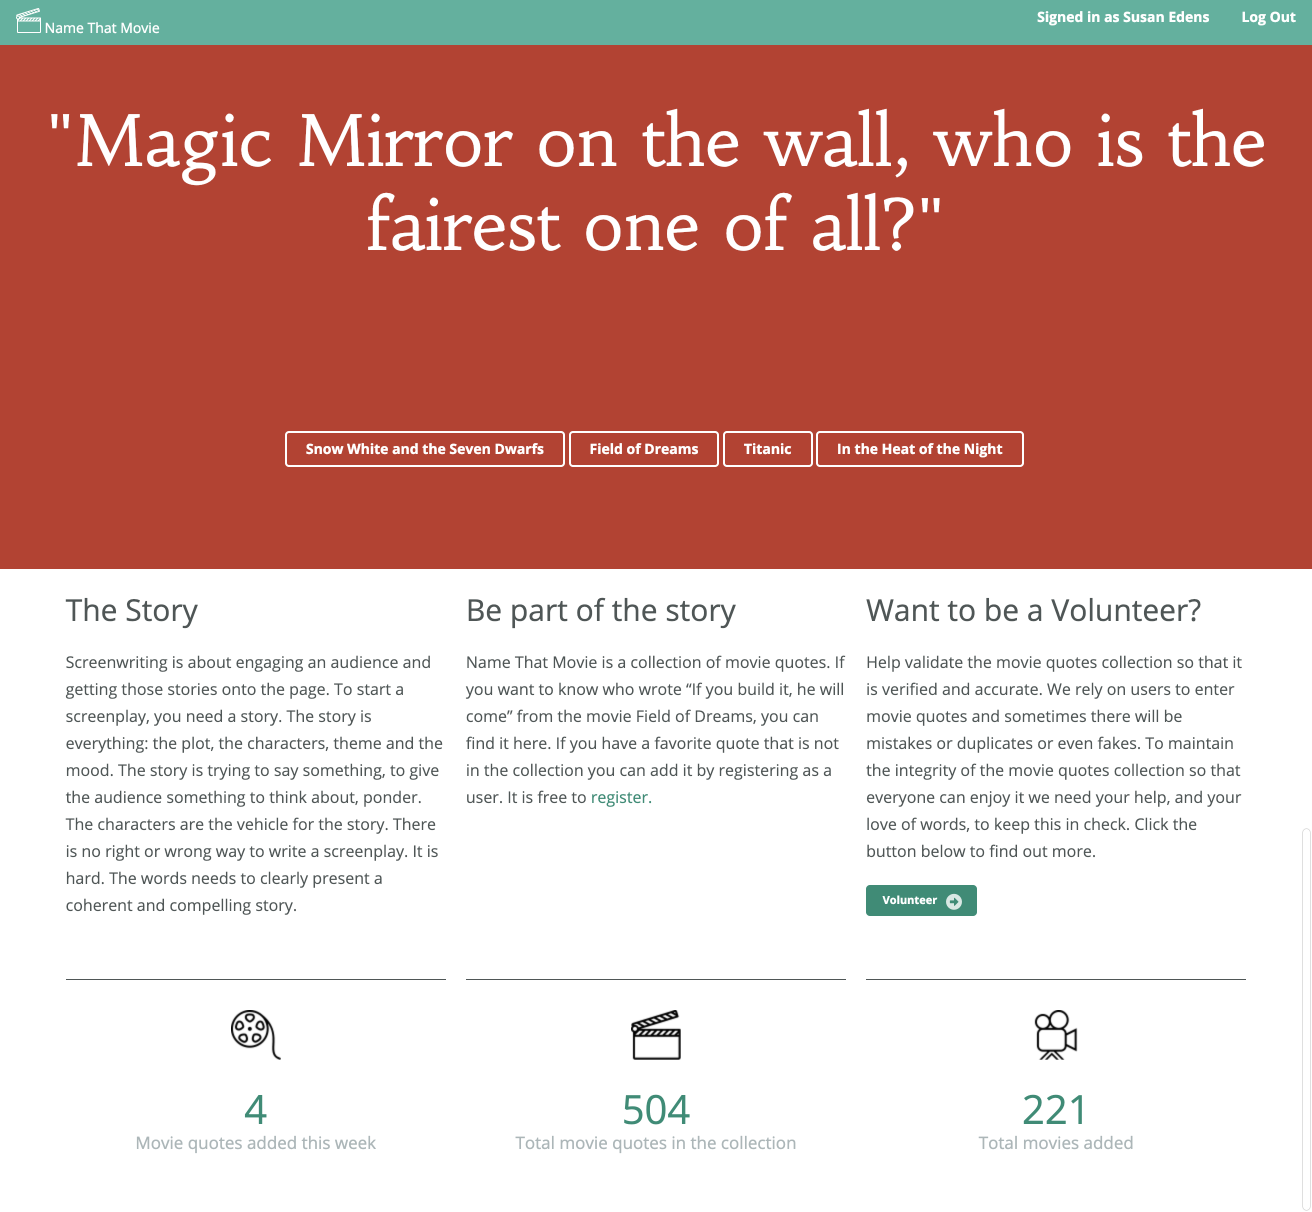
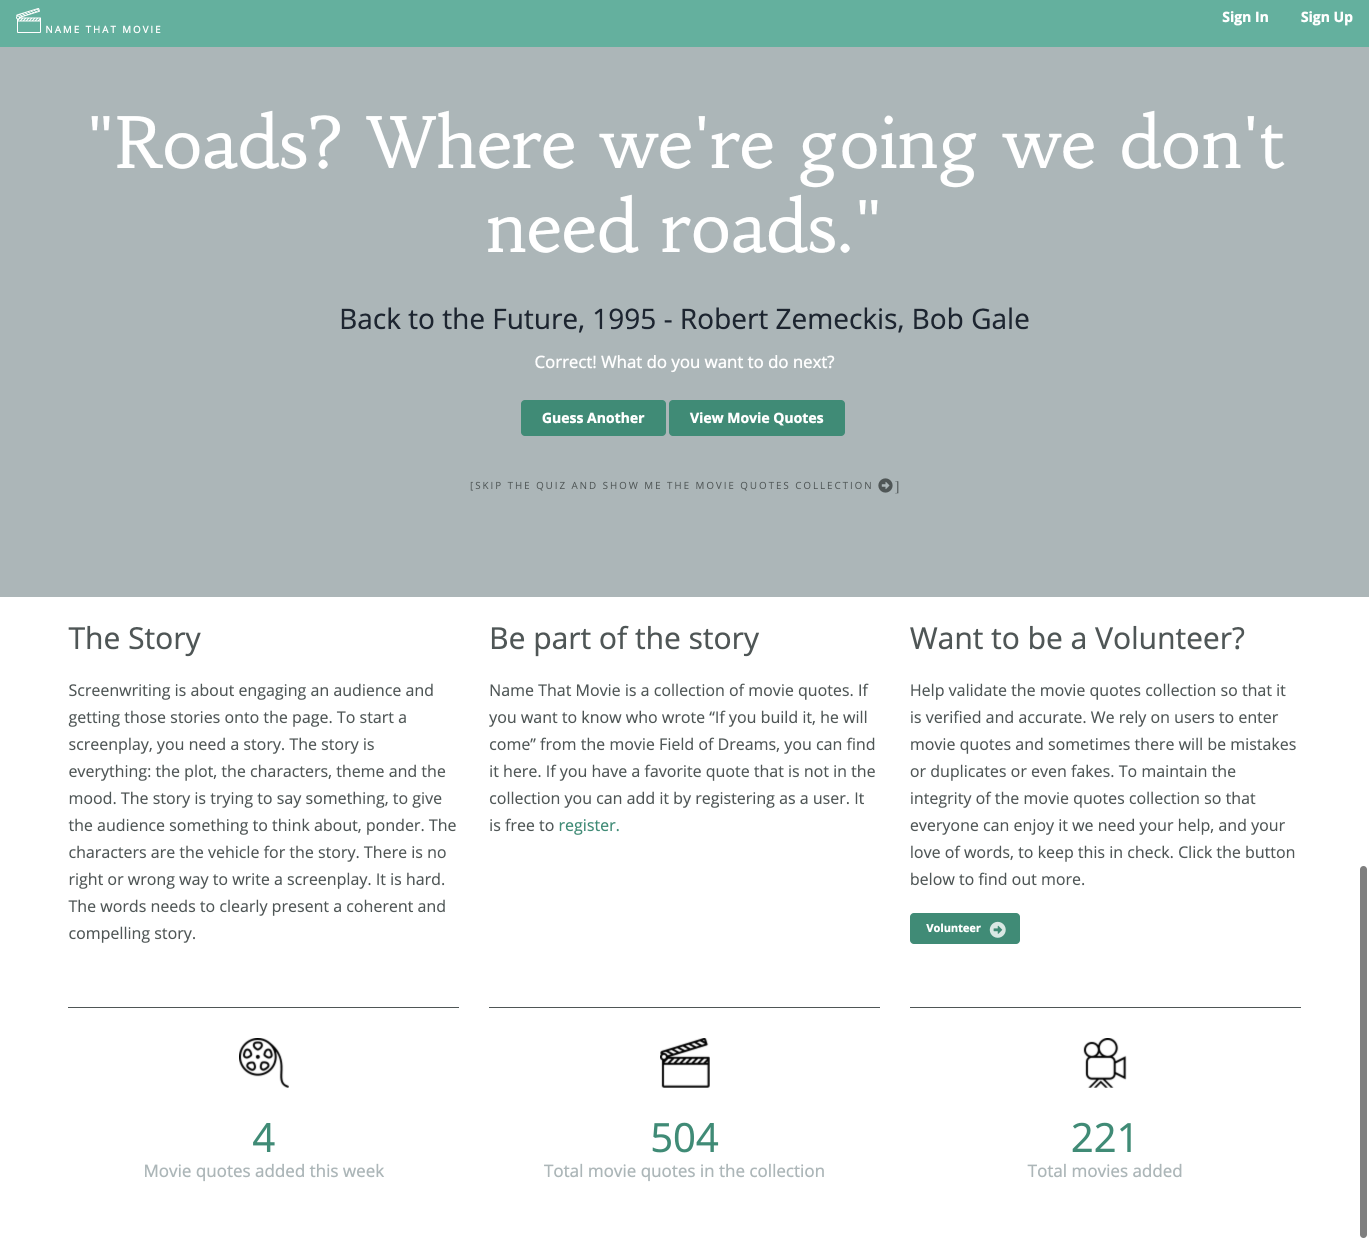
UI adjustments to landing page

diff --git a/public/stylesheets/style.css b/public/stylesheets/style.css
@@ -147,7 +147,7 @@
 }
 
 .moviequotemedium {
-  font: 2.8em 'Habibi', serif;
+  font: 3.5em 'Habibi', serif;
   line-height: 1.2em;
 }
 
@@ -193,7 +193,7 @@
   background-color: var(--pinkred); */
   display: block;
   width: 100%;
-  background-color: var(--pinkred);
+  background-color: var(--lightgrey);
   /*background-image: url("https://images.unsplash.com/photo-1507990178188-0118b242deda?ixlib=rb-1.2.1&auto=format&fit=crop&w=1391&q=80");
   transition: all 0.3s ease;
   -webkit-transform: translate3d(0, 0, 0);*/
@@ -201,6 +201,10 @@
 
 .logo {
   font-size: 1.0em;
+  color: var(--white);
+  font-size: 0.7rem;
+  letter-spacing: 0.2em;
+  text-transform: uppercase;
 }
 
 .logo a:hover {
@@ -237,12 +241,22 @@
   padding: 5px;
 }
 
+.skipquiz {
+  margin: 40px 0;
+  color: var(--darkgrey);
+  font-size: 0.7rem;
+  letter-spacing: 0.2em;
+  text-transform: uppercase;
+  text-align: center;
+}
+
 #moviequote {
   margin-top: 50px;
   color: var(--white);
   display: inline-block;
   vertical-align: middle;
   height: 200px;
+  -webkit-backface-visibility: hidden;
 }
 
 #usermessage {
@@ -310,6 +324,11 @@
   position: absolute;
   bottom: 0;
   width: 100%;
+}
+
+.floatcomment {
+  position: absolute;
+  right: 0;
 }
 
 /* ---------------- */

diff --git a/public/javascripts/landing.js b/public/javascripts/landing.js
@@ -20,7 +20,7 @@ const COLOR_PRIMARYRED = "#7B241C";
 const COLOR_WHITE = "#ffffff";
 const COLOR_DARKESTGREY = "#1B2631";
 const COLOR_GREENISH = "#45B39D";
-const MAX_CHAR_LENGTH = 60;
+const MAX_CHAR_LENGTH = 50;
 const FAIL_MESSAGE = "Wrong! Try again.";
 const SUCCESS_MESSAGE = "Correct! What do you want to do next?";
 
@@ -63,14 +63,15 @@ function setupAnswers() {
  *  quote from falling below the fold
  */
 function checkQuoteLength() {
+
     let quote = document.getElementById("moviequote");
 
     if (quote) {
         if (quote.textContent.length > MAX_CHAR_LENGTH) {
-            if (quote.className === "moviequotelarge") {
-                quote.className = "moviequotemedium";
+            if (quote.className === "flexitem moviequotelarge") {
+                quote.className = "flexitem moviequotemedium";
             } else {
-                quote.className = "moviequotelarge ";
+                quote.className = "flexitem moviequotelarge ";
             }
         }
     }
